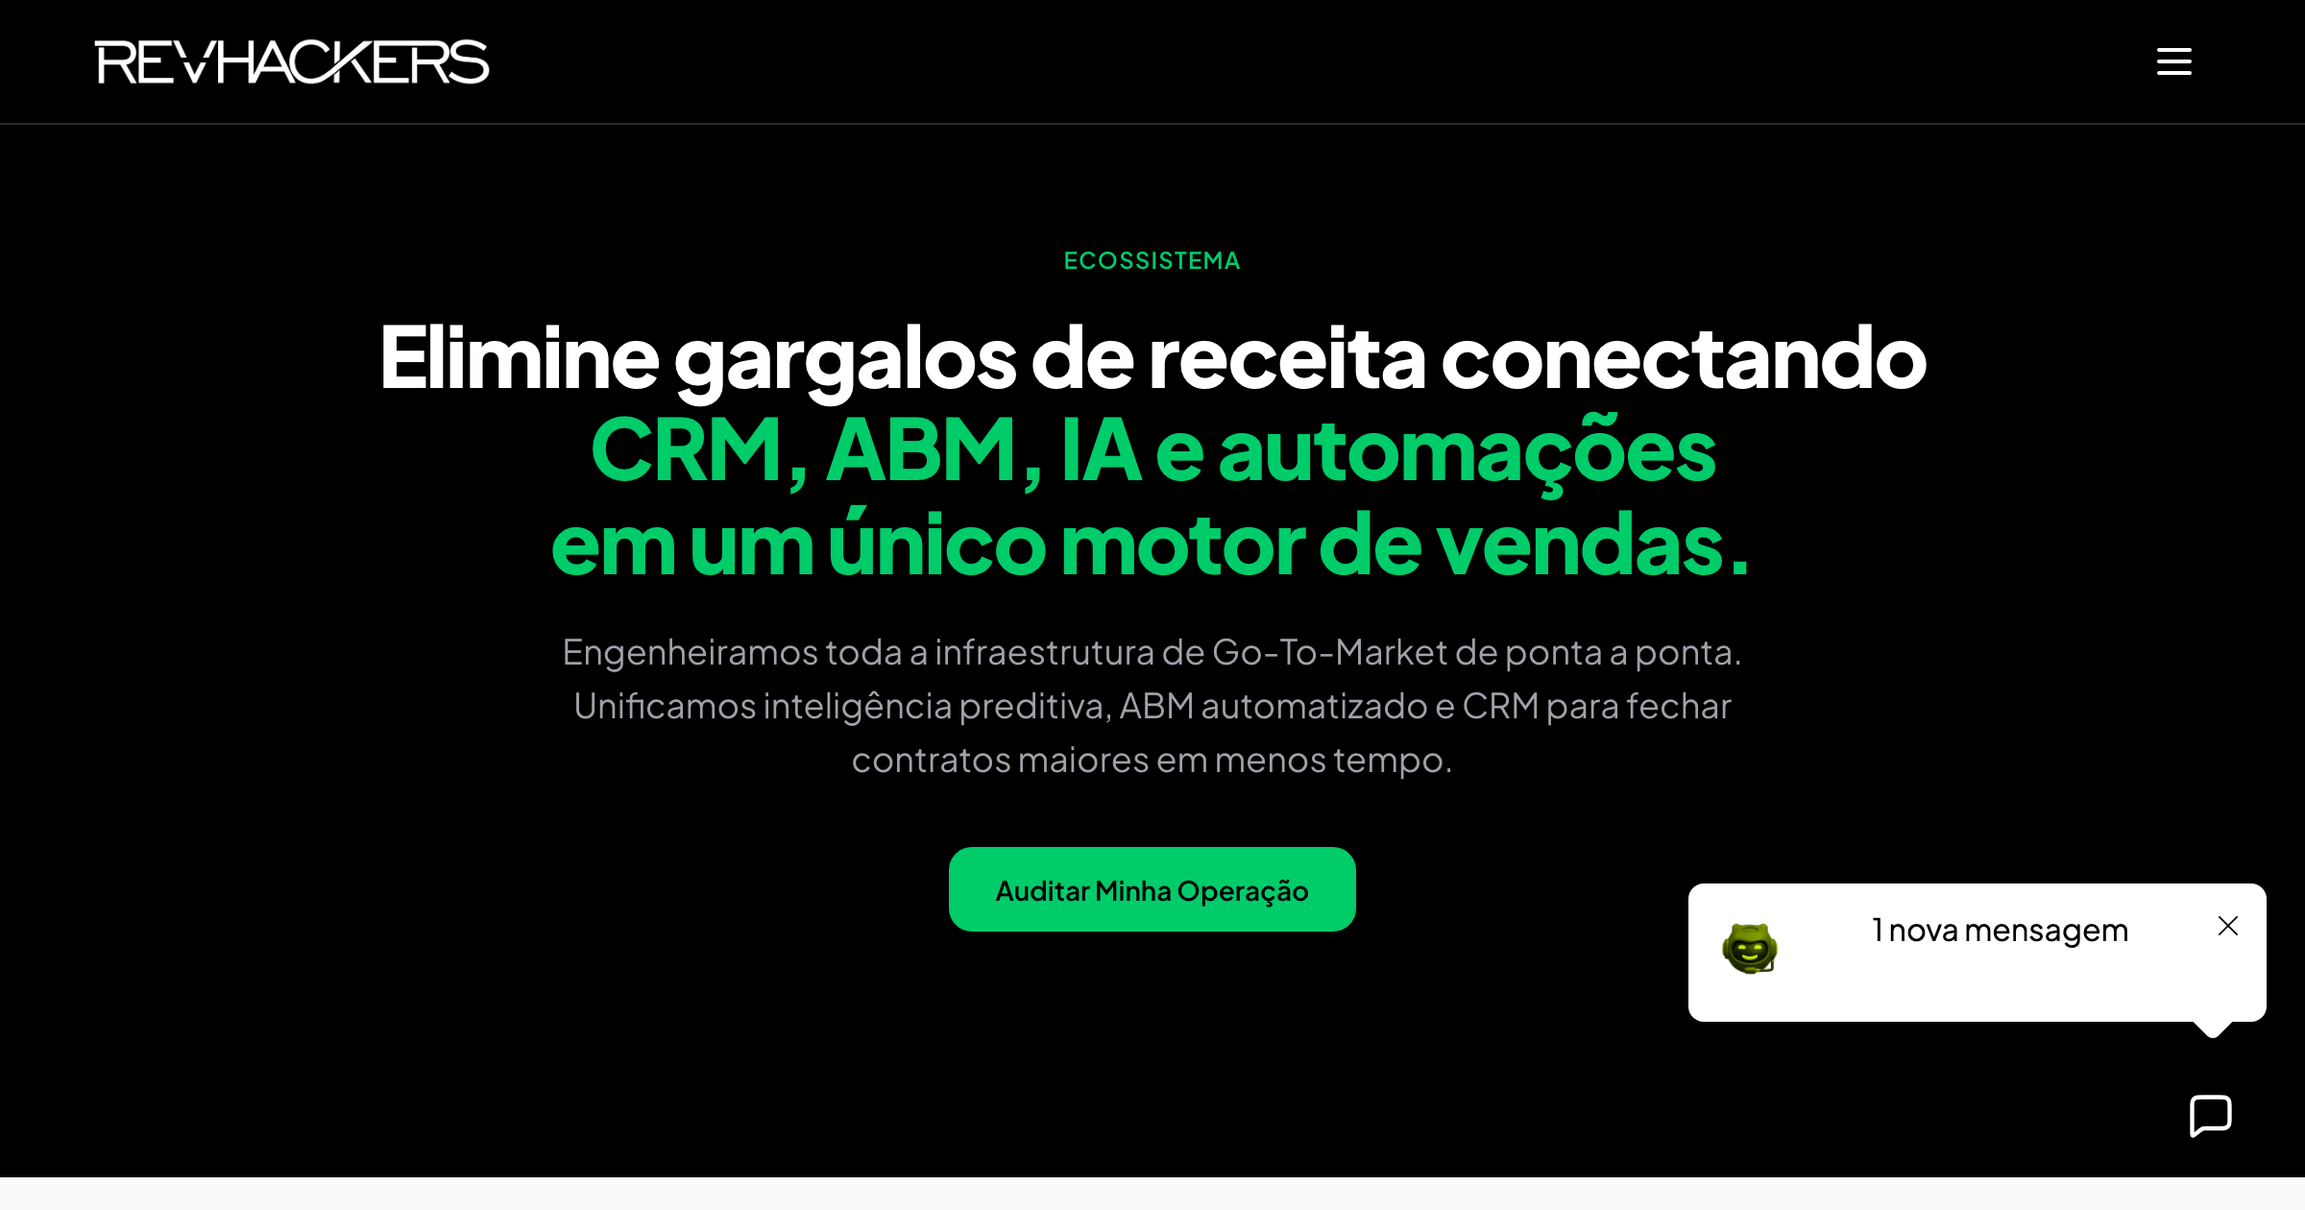
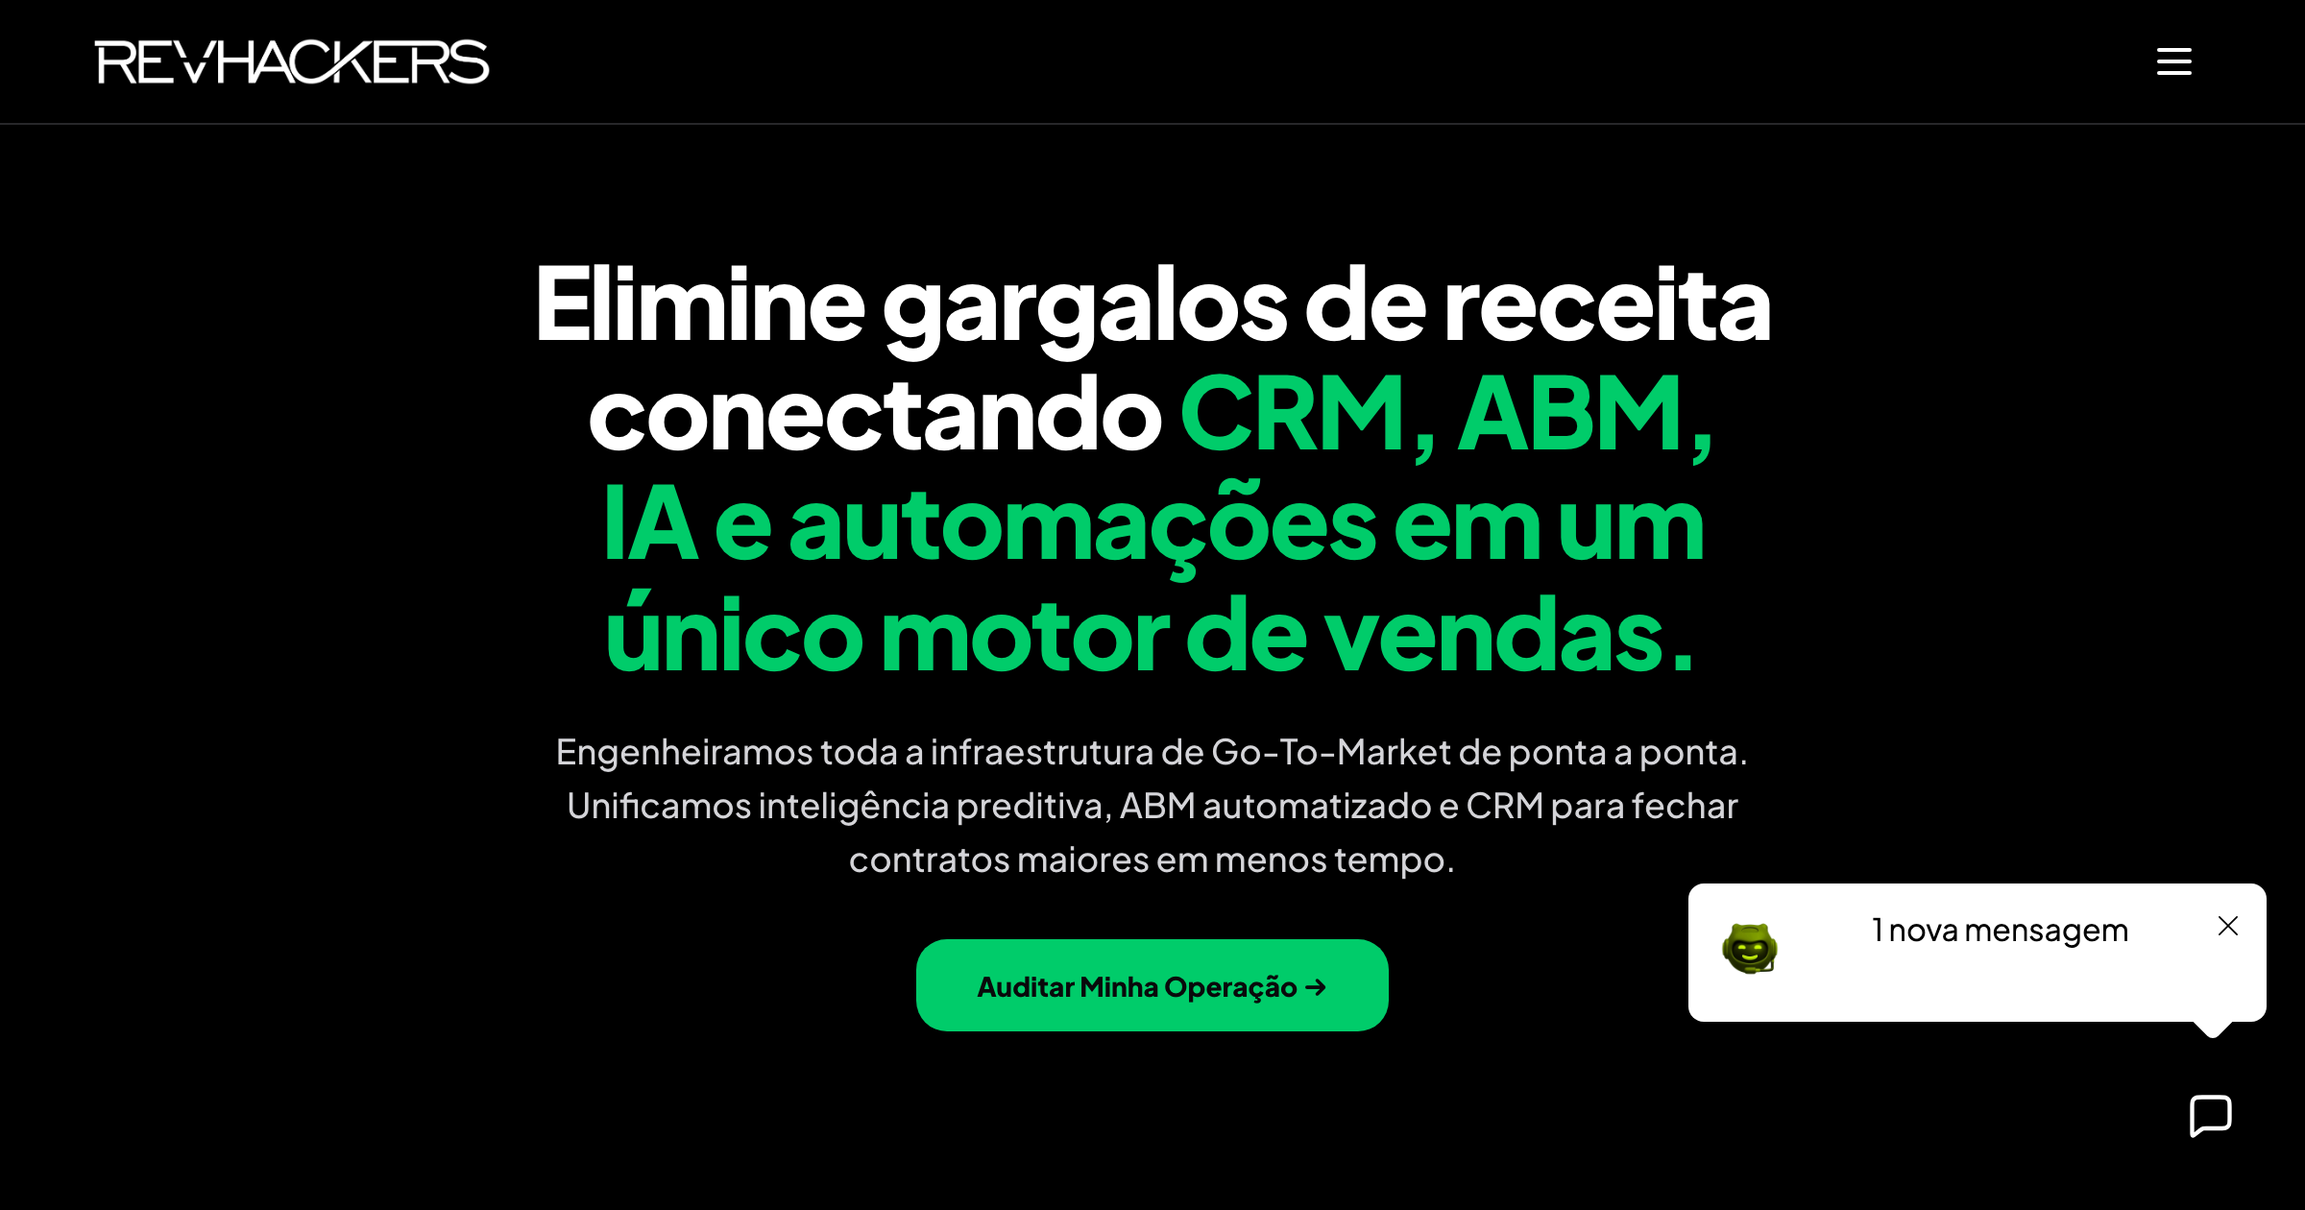
style(gold-standard): apply RevHackers Gold Standard to Servicos, Cases, and Home Services Section

Changed region(s): [[0.1562, 0.1857, 0.8438, 0.8667], [0.0, 0.9595, 1.0, 1.0]]

diff --git a/src/pages/Servicos.tsx b/src/pages/Servicos.tsx
@@ -75,76 +75,59 @@ const Servicos = () => {
         ]}
       />
       {/* Hero Section - Standard Black */}
-      <section className="bg-black py-24 md:py-32">
-        <div className="max-w-4xl mx-auto px-6 text-center">
-            <p className="text-[#00CC6A] text-xs font-semibold tracking-wider uppercase mb-4">
-              Ecossistema
-            </p>
-            <h1 className="text-[2rem] sm:text-[2.5rem] md:text-[2.75rem] font-extrabold text-white mb-5 leading-[1.1] tracking-tight text-center">
-              Elimine gargalos de receita conectando <span className="text-[#00CC6A]">CRM, ABM, IA e automações em um único motor de vendas.</span>
-            </h1>
-            <p className="text-zinc-400 text-base md:text-lg font-normal leading-relaxed max-w-2xl mx-auto text-center mb-8">
-              Engenheiramos toda a infraestrutura de Go-To-Market de ponta a ponta. Unificamos inteligência preditiva, ABM automatizado e CRM para fechar contratos maiores em menos tempo.
-            </p>
-            <div className="flex justify-center gap-4">
-                <Button asChild className="bg-[#00CC6A] text-black hover:bg-[#00b35e] font-semibold text-sm h-11 px-6 rounded-lg transition-all">
-                    <Link to="/booking">Auditar Minha Operação</Link>
-                </Button>
-            </div>
+      <section className="bg-black py-24 md:py-32 border-b border-zinc-900">
+        <div className="max-w-4xl mx-auto px-6 text-center space-y-5">
+          <h1 className="text-[2rem] sm:text-[2.5rem] md:text-[3.25rem] font-extrabold text-white leading-[1.1] tracking-tight text-center max-w-3xl mx-auto">
+            Elimine gargalos de receita conectando <span className="text-[#00CC6A]">CRM, ABM, IA e automações em um único motor de vendas.</span>
+          </h1>
+          <p className="text-zinc-300 text-base md:text-lg font-medium leading-relaxed max-w-2xl mx-auto text-center">
+            Engenheiramos toda a infraestrutura de Go-To-Market de ponta a ponta. Unificamos inteligência preditiva, ABM automatizado e CRM para fechar contratos maiores em menos tempo.
+          </p>
+          <div className="pt-2 flex justify-center">
+            <Button asChild className="bg-[#00CC6A] text-zinc-950 hover:bg-[#00b35e] font-extrabold text-sm h-12 px-8 rounded-xl shadow-lg transition-all">
+              <Link to="/booking">Auditar Minha Operação →</Link>
+            </Button>
+          </div>
         </div>
       </section>
 
-      {/* Capabilities Matrix - The "Machine" View */}
-      <Section variant="light" className="py-24 md:py-40 bg-zinc-50 relative overflow-hidden">
-        <div className="container-custom">
-          {/* Section Context */}
-          <div className="flex flex-col md:flex-row justify-between items-end mb-24 gap-8 border-b border-zinc-200 pb-12">
-            <div className="max-w-2xl">
-              <span className="font-sans text-xs text-zinc-400 uppercase tracking-[0.2em] mb-4 block">
-                // The Capabilities Matrix
-              </span>
-              <h2 className="text-xl md:text-2xl font-bold text-zinc-900 tracking-tight">
-                Sistemas de Crescimento. <br />
-                <span className="text-zinc-300 font-light italic">Peça por peça.</span>
-              </h2>
-            </div>
-            <p className="text-lg text-zinc-500 max-w-xs leading-relaxed font-light text-right md:text-left">
-              Não vendemos "serviços avulsos". Entregamos infraestrutura de receita compobível.
+      {/* Capabilities Matrix - Fundo 100% Branco Puro (Zero Cinza, Zero Caixas de Ícones) */}
+      <section className="py-20 bg-white text-zinc-900 border-b border-zinc-200/80">
+        <div className="max-w-6xl mx-auto px-6 space-y-16">
+          
+          {/* Section Header Centralizado */}
+          <div className="max-w-2xl mx-auto text-center space-y-2">
+            <h2 className="text-zinc-900 text-2xl sm:text-4xl font-extrabold tracking-tight leading-tight">
+              Sistemas de Crescimento Commercial
+            </h2>
+            <p className="text-zinc-500 text-xs sm:text-sm leading-relaxed max-w-xl mx-auto">
+              Não vendemos serviços avulsos. Entregamos infraestrutura de receita escalável e componível.
             </p>
           </div>
 
-          {/* Apple-Style Grid */}
-          <div className="grid grid-cols-1 md:grid-cols-2 lg:grid-cols-3 gap-6 md:gap-8">
+          {/* Grid 3 Colunas Editorial Limpa (Sem caixas de ícones) */}
+          <div className="grid grid-cols-1 md:grid-cols-2 lg:grid-cols-3 gap-6">
             {capabilities.map((item) => (
               <div
                 key={item.id}
-                className="group relative bg-white p-10 md:p-12 hover:shadow-sm hover:shadow-zinc-200/50 transition-all duration-700 rounded-xl border border-zinc-100 flex flex-col h-full overflow-hidden"
+                className="p-6 rounded-xl bg-zinc-50/70 border border-zinc-200/80 hover:border-zinc-300 hover:bg-zinc-50 transition-all flex flex-col justify-between space-y-6"
               >
-                {/* Header Card */}
-                <div className="flex justify-between items-start mb-12">
-                  <span className="font-sans text-2xl md:text-3xl font-bold text-zinc-50 group-hover:text-zinc-100 transition-colors duration-500 tracking-tight">
-                    {item.id}
+                <div className="space-y-3">
+                  <span className="text-zinc-400 font-sans font-semibold text-xs tracking-wider block">
+                    {item.id} / SISTEMA
                   </span>
-                  <div className="p-5 bg-zinc-900 rounded-xl shadow-sm shadow-zinc-200 group-hover:bg-black transition-all duration-500 group-hover:scale-110">
-                    <item.icon className="w-6 h-6 text-white" />
-                  </div>
-                </div>
-
-                {/* Content */}
-                <div className="flex-1">
-                  <h3 className="text-base md:text-lg font-bold text-zinc-900">
+                  <h3 className="text-zinc-900 font-bold text-lg tracking-tight">
                     {item.title}
                   </h3>
-                  <p className="text-body text-zinc-500 leading-relaxed mb-10 font-normal">
+                  <p className="text-zinc-500 text-xs leading-relaxed font-normal">
                     {item.description}
                   </p>
                 </div>
 
-                {/* Tech Stack Footer */}
-                <div className="pt-8 border-t border-zinc-50">
-                  <div className="flex flex-wrap gap-2 mb-10">
+                <div className="space-y-4 pt-4 border-t border-zinc-200/60">
+                  <div className="flex flex-wrap gap-1.5">
                     {item.tech.map((tech) => (
-                      <span key={tech} className="text-2xs font-bold text-zinc-400 uppercase bg-zinc-50 border border-zinc-100 px-2.5 py-1 rounded-lg">
+                      <span key={tech} className="text-[10px] font-semibold text-zinc-600 uppercase bg-white border border-zinc-200 px-2 py-0.5 rounded">
                         {tech}
                       </span>
                     ))}
@@ -152,38 +135,34 @@ const Servicos = () => {
 
                   <Link
                     to={`/servicos/${item.slug}`}
-                    className="inline-flex items-center text-xs font-semibold text-zinc-900 uppercase tracking-wider group-hover:text-black transition-all gap-3 group-hover:gap-5"
+                    className="inline-flex items-center text-xs font-bold text-zinc-900 uppercase tracking-wider hover:text-zinc-600 transition-colors gap-2"
                   >
-                    EXPLORAR <ArrowUpRight className="w-4 h-4" />
+                    <span>Explorar Detalhes</span>
+                    <ArrowUpRight className="w-3.5 h-3.5" />
                   </Link>
                 </div>
-
-                {/* Subtle Hover Gradient */}
-                <div className="absolute top-0 right-0 w-32 h-32 bg-zinc-50 rounded-lg -mr-16 -mt-16 opacity-0 group-hover:opacity-100 transition-opacity duration-1000 blur-3xl -z-10" />
               </div>
             ))}
           </div>
         </div>
-      </Section>
+      </section>
 
-      {/* CTA Section - Minimalist Footer */}
-      <Section variant="light" className="py-32 bg-zinc-50 border-t border-zinc-200">
-        <div className="container-custom">
-          <div className="max-w-3xl mx-auto text-center">
-            <h2 className="text-xl md:text-2xl font-bold text-zinc-900 tracking-tight">
-              Está pronto para a Máquina?
-            </h2>
-            <p className="text-zinc-500 mb-12 text-lg font-bold max-w-xl mx-auto">
-              Vagas de implementação restritas. Vamos auditar suas finanças e plugar a Automação se houver fit com a RevHackers.
-            </p>
-            <Button asChild className="bg-black text-white hover:bg-[#00CC6A] hover:text-black border-none rounded-lg px-6 h-11 text-sm uppercase tracking-wider font-semibold transition-all transform hover:-translate-y-1">
-              <Link to="/booking">
-                Auditar Minha Operação
-              </Link>
+      {/* CTA Section - Fundo 100% Branco Puro */}
+      <section className="py-20 bg-white text-zinc-900 border-t border-zinc-200/80">
+        <div className="max-w-3xl mx-auto px-6 text-center space-y-4">
+          <h2 className="text-zinc-900 text-2xl sm:text-3xl font-extrabold tracking-tight">
+            Está pronto para a Máquina?
+          </h2>
+          <p className="text-zinc-500 text-sm max-w-xl mx-auto leading-relaxed">
+            Vagas de implementação restritas. Vamos auditar suas finanças e plugar a Automação se houver fit com a RevHackers.
+          </p>
+          <div className="pt-2">
+            <Button asChild className="bg-zinc-950 text-white hover:bg-zinc-800 font-bold text-sm h-11 px-8 rounded-xl shadow-xs transition-all">
+              <Link to="/booking">Auditar Minha Operação →</Link>
             </Button>
           </div>
         </div>
-      </Section>
+      </section>
     </PageLayout>
   );
 };

diff --git a/src/components/home/ServicesSection.tsx b/src/components/home/ServicesSection.tsx
@@ -52,27 +52,18 @@ const ServicesSection = () => {
   return (
     <section
       ref={ref}
-      className="py-20 bg-zinc-50 border-b border-zinc-200"
+      className="py-20 bg-white border-b border-zinc-200/80"
     >
       <div className="max-w-5xl mx-auto px-6">
 
-        {/* Header — Centralizado */}
-        <div className="mb-14 max-w-3xl mx-auto text-center">
-          <motion.p
-            variants={fadeUp}
-            custom={0}
-            initial="hidden"
-            animate={inView ? 'visible' : 'hidden'}
-            className="text-[#00CC6A] text-xs font-semibold tracking-wider uppercase mb-3"
-          >
-            Como funciona
-          </motion.p>
+        {/* Header — Centralizado sem badges pill */}
+        <div className="mb-14 max-w-3xl mx-auto text-center space-y-3">
           <motion.h2
             variants={fadeUp}
             custom={1}
             initial="hidden"
             animate={inView ? 'visible' : 'hidden'}
-            className="text-zinc-900 text-2xl md:text-3xl font-bold tracking-tight leading-tight mb-4"
+            className="text-zinc-900 text-2xl md:text-3xl font-extrabold tracking-tight leading-tight"
           >
             Você contratou SDRs, comprou ferramentas e postou no LinkedIn por 6 meses.{' '}
             <span className="text-zinc-400">Quanto disso virou receita auditada?</span>
@@ -82,16 +73,15 @@ const ServicesSection = () => {
             custom={2}
             initial="hidden"
             animate={inView ? 'visible' : 'hidden'}
-            className="text-zinc-500 text-base leading-relaxed max-w-2xl mx-auto"
+            className="text-zinc-500 text-sm md:text-base leading-relaxed max-w-2xl mx-auto"
           >
             Nós não vendemos horas de consultoria. Nós instalamos 4 sistemas que encontram e fecham receita travada na sua operação.
           </motion.p>
         </div>
 
-        {/* Grid 2x2 — Cards limpos SaaS */}
-        <div className="grid grid-cols-1 md:grid-cols-2 gap-4">
+        {/* Grid 2x2 — Editorial Limpo sem caixas de ícones */}
+        <div className="grid grid-cols-1 md:grid-cols-2 gap-6">
           {services.map((service, i) => {
-            const Icon = service.icon;
             return (
               <motion.div
                 key={service.title}
@@ -103,29 +93,24 @@ const ServicesSection = () => {
                 <Link
                   to={service.link}
                   onClick={scrollToTop}
-                  className="group flex flex-col h-full p-6 bg-white border border-zinc-200 rounded-xl hover:border-[#00CC6A]/40 hover:shadow-sm transition-all"
+                  className="group flex flex-col h-full p-6 bg-zinc-50/70 border border-zinc-200/80 rounded-xl hover:border-zinc-300 hover:bg-zinc-50 transition-all space-y-3"
                 >
-                  {/* Ícones de Engenharia & Processos */}
-                  <div className="w-10 h-10 bg-zinc-100 rounded-lg flex items-center justify-center mb-4 group-hover:bg-[#00CC6A]/10 transition-colors">
-                    <Icon className="w-5 h-5 text-zinc-700 group-hover:text-[#00CC6A] transition-colors" strokeWidth={1.5} />
-                  </div>
-
                   {/* Título */}
-                  <h3 className="text-zinc-900 font-bold text-base mb-2 group-hover:text-[#00CC6A] transition-colors">
+                  <h3 className="text-zinc-900 font-bold text-base tracking-tight">
                     {service.title}
                   </h3>
 
                   {/* Descrição */}
-                  <p className="text-zinc-500 text-sm leading-relaxed flex-1 mb-4">
+                  <p className="text-zinc-500 text-xs leading-relaxed flex-1 font-normal">
                     {service.desc}
                   </p>
 
                   {/* Resultado concreto */}
-                  <div className="flex items-center justify-between pt-4 border-t border-zinc-100">
-                    <span className="text-xs font-sans font-bold text-[#00CC6A]">
+                  <div className="flex items-center justify-between pt-3 border-t border-zinc-200/60">
+                    <span className="text-xs font-sans font-bold text-zinc-900">
                       {service.result}
                     </span>
-                    <ArrowRight className="w-4 h-4 text-zinc-300 group-hover:text-[#00CC6A] transition-colors" strokeWidth={1.5} />
+                    <ArrowRight className="w-4 h-4 text-zinc-400 group-hover:text-zinc-900 group-hover:translate-x-1 transition-all" strokeWidth={1.5} />
                   </div>
                 </Link>
               </motion.div>

diff --git a/src/pages/Cases.tsx b/src/pages/Cases.tsx
@@ -123,12 +123,12 @@ const Cases = () => {
                     {/* Conteúdo do Card */}
                     <div className="p-6 md:p-8 flex-1 flex flex-col bg-white">
                       <div className="flex items-center justify-between mb-3">
-                        <span className="text-[#00CC6A] text-xs font-semibold tracking-wider uppercase">
+                        <span className="text-zinc-500 text-xs font-semibold tracking-wider uppercase">
                           {study.case_category}
                         </span>
                       </div>
 
-                      <h3 className="text-lg font-bold text-zinc-900 mb-2 group-hover:text-[#00CC6A] transition-colors leading-snug">
+                      <h3 className="text-lg font-bold text-zinc-900 mb-2 group-hover:text-zinc-700 transition-colors leading-snug">
                         {study.title}
                       </h3>
 
@@ -142,17 +142,17 @@ const Cases = () => {
                           {study.metrics.slice(0, 2).map((m: any, idx: number) => (
                             <div key={idx} className="bg-zinc-50 border border-zinc-100 rounded-lg p-2.5">
                               <span className="text-[10px] text-zinc-400 font-semibold block uppercase tracking-wider">{m.label}</span>
-                              <span className="text-sm font-extrabold text-zinc-900">{m.value}</span>
+                              <span className="text-sm font-extrabold text-zinc-950">{m.value}</span>
                             </div>
                           ))}
                         </div>
                       )}
 
                       <div className="pt-4 border-t border-zinc-100 flex items-center justify-between">
-                        <span className="text-xs font-bold text-zinc-900 group-hover:text-[#00CC6A] transition-colors">
+                        <span className="text-xs font-bold text-zinc-950 group-hover:text-zinc-700 transition-colors">
                           Ver Estudo Completo
                         </span>
-                        <ArrowRight className="h-4 w-4 text-zinc-400 group-hover:text-[#00CC6A] group-hover:translate-x-1 transition-all" />
+                        <ArrowRight className="h-4 w-4 text-zinc-400 group-hover:text-zinc-950 group-hover:translate-x-1 transition-all" />
                       </div>
                     </div>
 
